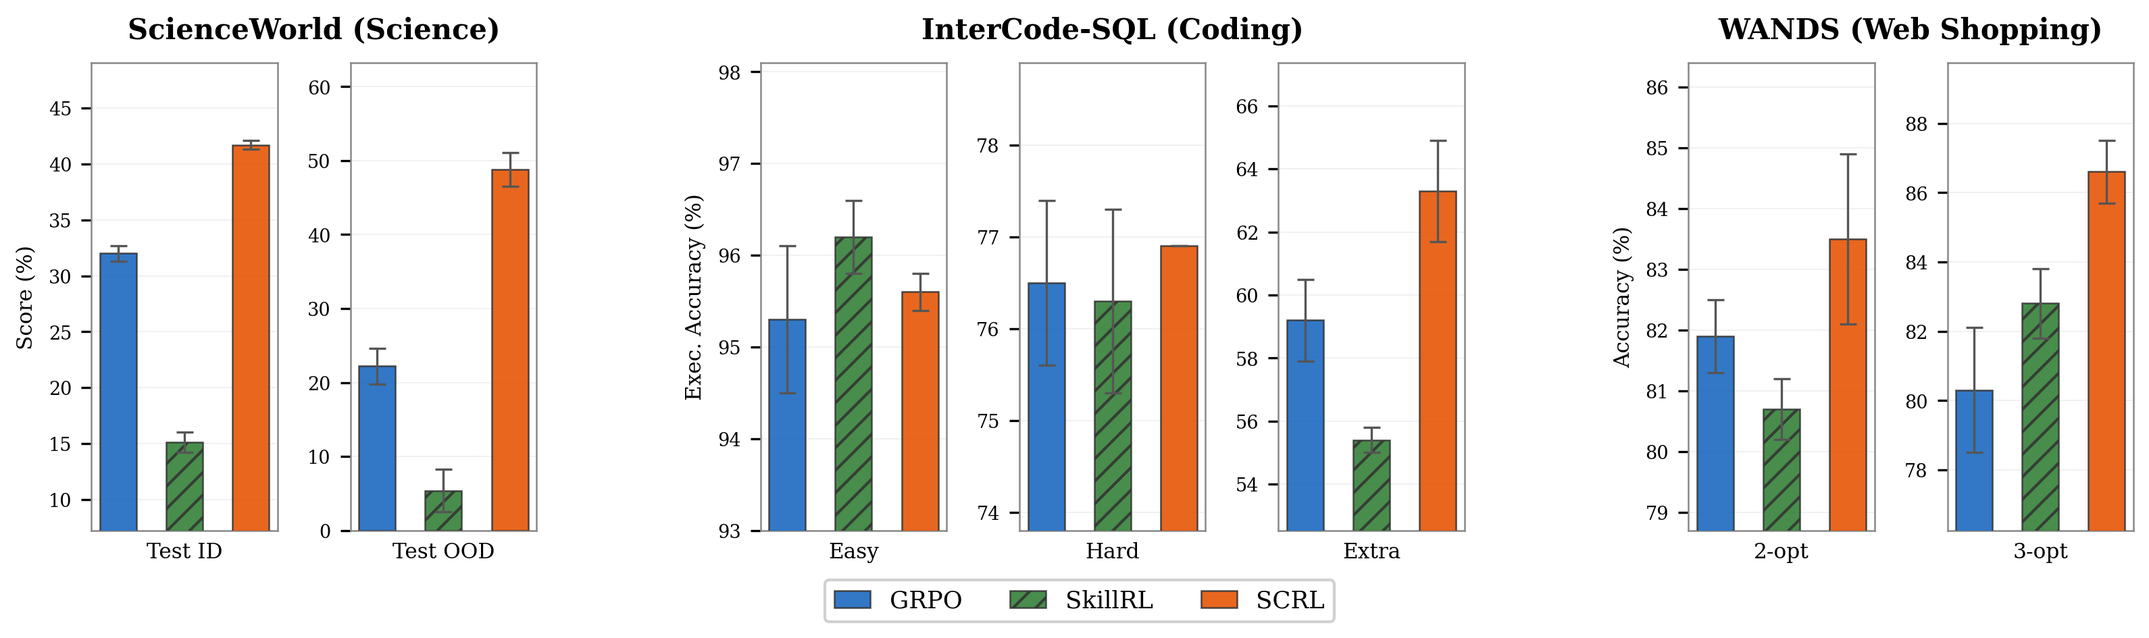
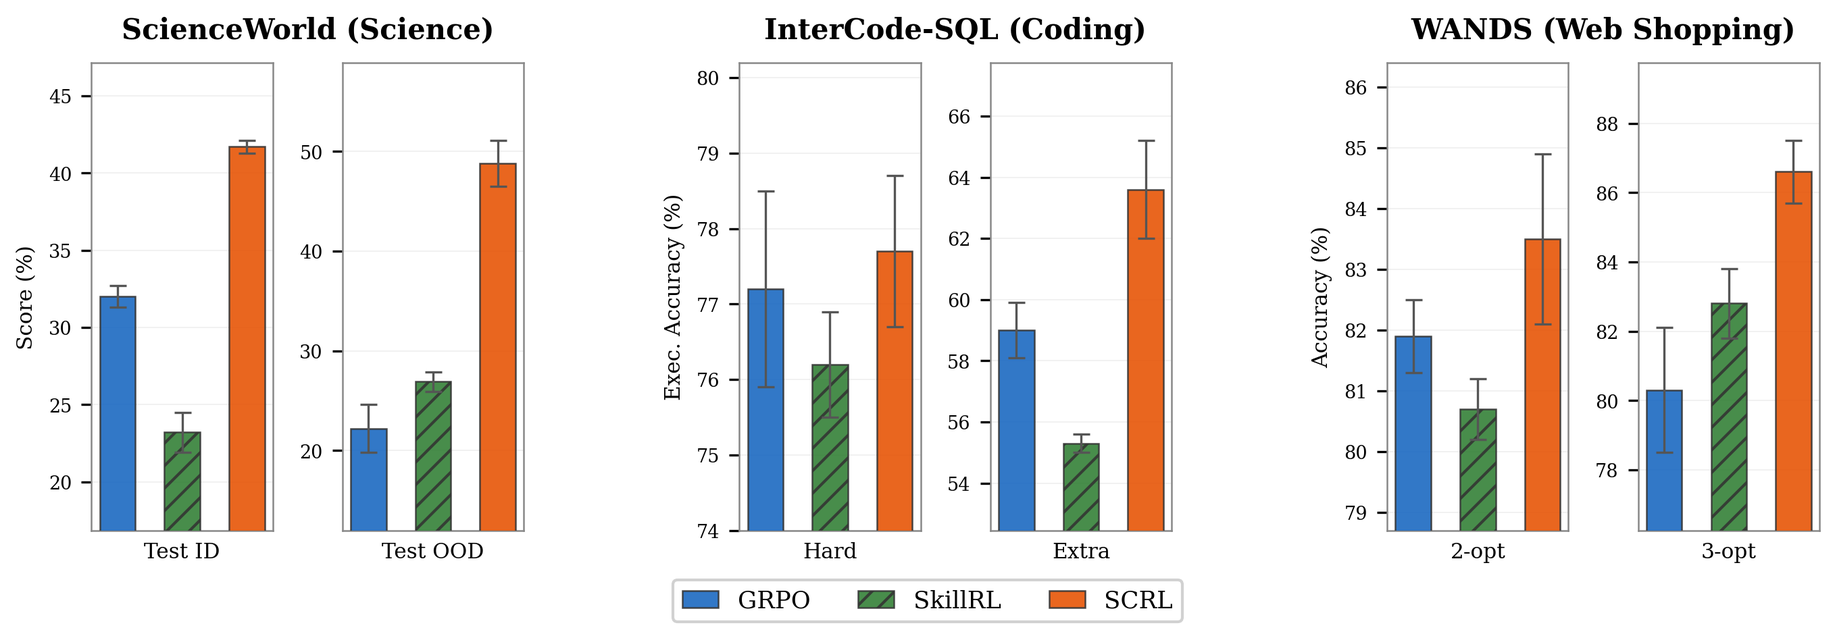
Update experiments: SCRL 4B results, table formatting, case studies
- Update SCRL 4B ALFWorld numbers (s135 from 0427 run): 89.8% overall
- Update SQL bar chart to 6-replicate results, drop Easy category
- Expand table column headers: P&P→Pick&Place, Trans.→Transform, etc.
- Switch tables to resizebox for proper column spacing
- Add case study figure with skill references and action formatting
- Add color definitions, qualitative analysis section with lifecycle + cases

diff --git a/scrl.tex b/scrl.tex
@@ -30,6 +30,12 @@
 
 \input{commands}
 
+\definecolor{stage1color}{HTML}{E65100}
+\definecolor{stage2color}{HTML}{00695C}
+\definecolor{stage3color}{HTML}{4A148C}
+\definecolor{successgreen}{HTML}{2E7D32}
+\definecolor{skillcolor}{HTML}{1565C0}
+
 \title{\ours: RL-Guided Skill Creator for Agentic Skill-Policy Coevolution}
 
 \author{%
@@ -202,29 +208,31 @@ The complete procedure is summarized in Algorithm~\ref{alg:scrl}. The skill crea
 \label{sec:experiments}
 %=============================================================================
 
+% We investigate four questions: (1)~How does \ours~compare to prompt-based methods, vanilla RL, and static skill augmentation? (2)~Does controlled skill evolution improve generalization to unseen tasks? (3)~What is the contribution of Thompson Sampling and evolution frequency? (4)~How do skills co-evolve with the policy during training?
+
 \subsection{Setup}
 
-\sparagraph{Models and benchmarks}
-We evaluate \ours~on two diverse agentic benchmarks: multi-hop question answering with a search tool (NQ + HotpotQA) and ALFWorld \citep{shridharalfworld} (embodied household tasks). We conduct experiments using the Qwen3 model family \citep{bai2023qwen} at two scales: 4B and 8B parameters. Unless otherwise specified, all results use the 4B model.
+\sparagraph{Environments}
+We conduct primary experiments on two diverse agentic benchmarks. \textit{Search}: agents answer factual questions by iteratively issuing search queries and reasoning over retrieved passages. We train on Natural Questions (NQ, single-hop) and HotpotQA (multi-hop), and evaluate generalization on five unseen datasets: PopQA and TriviaQA (single-hop), and 2WikiMultiHopQA, MuSiQue, and Bamboogle (multi-hop). \textit{ALFWorld} \citep{shridharalfworld}: agents complete embodied household tasks (pick \& place, heat/cool/clean, examine) through text commands, evaluated on both seen and unseen task configurations. To further assess broad applicability, we extend our evaluation to three additional domains: \textit{ScienceWorld} \citep{wang2022scienceworld} (science discovery with in-distribution and out-of-distribution task variants), \textit{InterCode-SQL} \citep{yang2023intercode} (interactive SQL generation across Easy, Hard, and Extra-hard difficulty levels), and \textit{WANDS} \citep{chen2022wands} (web shopping with 2-opt and 3-opt optimization horizons). All experiments use the Qwen3 model family \citep{bai2023qwen} at 4B and 8B scales; unless otherwise specified, results report the 4B model.
 
 \rparagraph{Baselines}
-We compare \ours~against two categories of baselines. \textit{Prompt-based methods}: zero-shot \textbf{Baseline}, and retrieval-augmented variants including \textbf{Retrieval} (BM25), \textbf{RAG} (HippoRAG), and \textbf{Long Context} (full trajectory history in context). \textit{RL methods}: \textbf{GRPO}, standard GRPO training with a static instruction and no skills, and \textbf{SkillRL} \citep{xia2025skillrl}, which distills teacher-model skills as static augmentations. We also evaluate ablation variants of \ours~(see \S\ref{sec:ablation}). Implementation details are provided in Appendix~\ref{app:implementation}.
+We compare \ours~against two categories of baselines. \textit{Prompt-based methods}: zero-shot baseline, and retrieval-augmented variants including \texttt{Retrieval} (BM25), \texttt{RAG} (HippoRAG), and \texttt{Long Context} (full trajectory history in context). \textit{RL methods}: \texttt{GRPO}, standard GRPO training with a static instruction and no skills, and \texttt{SkillRL} \citep{xia2025skillrl}, which distills teacher-model skills as static augmentations. We also evaluate ablation variants of \ours~(see \S\ref{sec:ablation}). Implementation details are provided in Appendix~\ref{app:implementation}.
 
 \subsection{Main Results}
 
 \begin{table*}[!t]
-\caption{Main results (mean\tpm{std} over 3 replicates, \%). ALFWorld groups task types into Pick\&Place (P\&P), Transform (Trans.\ = avg of heat, cool, clean), and Examine (Exam.). Search groups by hop count: single-hop (SH) and multi-hop (MH). Retrieval uses BM25; RAG uses HippoRAG. Best per model scale \textbf{bolded}.}
+\caption{Main results (mean\tpm{std} over 3 replicates, \%). ALFWorld groups task types into Pick\&Place, Transform (avg of heat, cool, clean), and Examine. Search groups by hop count: Single-hop and Multi-hop. Retrieval uses BM25; RAG uses HippoRAG. Best per model scale \textbf{bolded}.}
 \label{tab:main_results}
 \centering
 \scriptsize
-\small
-\setlength{\tabcolsep}{0pt}
-\textbf{ALFWorld} — Task types: Pick\&Place (P\&P), Transform (Trans.\ = avg of heat, cool, clean), Examine (Exam.)\\[2pt]
-\begin{tabular*}{\textwidth}{@{\extracolsep{\fill}}ll cccc c cccc c@{}}
+\setlength{\tabcolsep}{4pt}
+\textbf{ALFWorld}\\[2pt]
+\resizebox{\textwidth}{!}{%
+\begin{tabular}{ll cccc c cccc c}
 \toprule
 & & \multicolumn{4}{c}{Seen} && \multicolumn{4}{c}{Unseen} & \\
 \cmidrule(lr){3-6} \cmidrule(lr){8-11}
-& Method & P\&P & Trans. & Exam. & Avg && P\&P & Trans. & Exam. & Avg & Overall \\
+& Method & Pick\&Place & Transform & Examine & Avg && Pick\&Place & Transform & Examine & Avg & Overall \\
 \midrule
 \rowcolor{Gray} \multicolumn{12}{c}{\textbf{Qwen3-4B}} \\
 \midrule
@@ -234,9 +242,9 @@ We compare \ours~against two categories of baselines. \textit{Prompt-based metho
 & RAG & 43.8\tpm{0.0} & 18.5\tpm{0.0} & 64.3\tpm{0.0} & 34.3\tpm{0.0} && 21.2\tpm{0.0} & 43.8\tpm{0.0} & 83.3\tpm{0.0} & 38.1\tpm{0.0} & 36.1\tpm{0.0} \\
 & Long Context & 62.5\tpm{0.0} & 48.9\tpm{0.0} & 50.0\tpm{0.0} & 54.3\tpm{0.0} && 28.8\tpm{0.0} & 67.0\tpm{0.0} & 66.7\tpm{0.0} & 51.5\tpm{0.0} & 52.9\tpm{0.0} \\
 \midrule
-\multirow{2}{*}{\textit{w/ RL}} & GRPO & 93.1\tpm{1.2} & 62.5\tpm{5.7} & \textbf{92.3}\tpm{0.0} & 78.6\tpm{3.3} && 84.2\tpm{5.2} & 72.6\tpm{2.7} & 94.4\tpm{9.6} & 78.9\tpm{1.9} & 78.7\tpm{2.6} \\
-& SkillRL & 88.2\tpm{0.0} & \textbf{85.9}\tpm{0.0} & 61.5\tpm{0.0} & \textbf{85.7}\tpm{0.0} && 68.7\tpm{7.5} & 78.4\tpm{0.8} & \textbf{94.4}\tpm{5.6} & 77.1\tpm{2.8} & 81.5\tpm{1.4} \\
-%& \textbf{\ours} & \textbf{97.9}\tpm{0.0} & \textbf{88.5}\tpm{0.0} & \textbf{92.3}\tpm{0.0} & \textbf{93.6}\tpm{0.0} && \textbf{93.0}\tpm{3.4} & \textbf{93.1}\tpm{4.2} & \textbf{98.1}\tpm{3.2} & \textbf{93.5}\tpm{1.1} & \textbf{93.6}\tpm{0.6} \\
+\multirow{3}{*}{\textit{w/ RL}} & GRPO & \textbf{93.1}\tpm{1.2} & 62.5\tpm{5.7} & \textbf{92.3}\tpm{0.0} & 78.6\tpm{3.3} && 84.2\tpm{5.2} & 72.6\tpm{2.7} & 94.4\tpm{9.6} & 78.9\tpm{1.9} & 78.7\tpm{2.6} \\
+& SkillRL & 88.2\tpm{0.0} & 85.9\tpm{0.0} & 61.5\tpm{0.0} & 85.7\tpm{0.0} && 68.7\tpm{7.5} & 78.4\tpm{0.8} & 94.4\tpm{5.6} & 77.1\tpm{2.8} & 81.5\tpm{1.4} \\
+& \textbf{\ours} & 91.6\tpm{0.0} & \textbf{88.7}\tpm{0.0} & 76.9\tpm{0.0} & \textbf{90.0}\tpm{0.0} && \textbf{87.4}\tpm{2.9} & \textbf{89.6}\tpm{1.9} & \textbf{96.3}\tpm{6.4} & \textbf{89.6}\tpm{0.8} & \textbf{89.8}\tpm{0.4} \\
 \midrule
 \rowcolor{Gray} \multicolumn{12}{c}{\textbf{Qwen3-8B}} \\
 \midrule
@@ -244,15 +252,16 @@ We compare \ours~against two categories of baselines. \textit{Prompt-based metho
 & SkillRL & 95.5\tpm{1.0} & \textbf{83.8}\tpm{2.5} & 87.2\tpm{4.4} & 89.0\tpm{0.4} && 74.0\tpm{5.1} & 79.6\tpm{2.0} & 94.4\tpm{5.6} & 79.9\tpm{2.6} & 84.5\tpm{1.2} \\
 & \textbf{\ours} & \textbf{96.5}\tpm{1.0} & 81.4\tpm{2.2} & \textbf{94.9}\tpm{3.6} & \textbf{90.2}\tpm{0.7} && \textbf{99.3}\tpm{1.0} & \textbf{91.2}\tpm{2.4} & \textbf{100.0}\tpm{0.0} & \textbf{95.3}\tpm{1.3} & \textbf{92.7}\tpm{0.8} \\
 \bottomrule
-\end{tabular*}
+\end{tabular}}%
 \vspace{4pt}
 
-\textbf{Search} — Grouped by hop count: single-hop (SH) and multi-hop (MH)\\[2pt]
-\begin{tabular*}{\textwidth}{@{\extracolsep{\fill}}ll ccc c ccc c@{}}
+\textbf{Search}\\[2pt]
+\resizebox{\textwidth}{!}{%
+\begin{tabular}{ll ccc c ccc c}
 \toprule
 & & \multicolumn{3}{c}{Seen} && \multicolumn{3}{c}{Unseen} & \\
 \cmidrule(lr){3-5} \cmidrule(lr){7-9}
-& Method & SH & MH & Avg && SH & MH & Avg & Overall \\
+& Method & Single-hop & Multi-hop & Avg && Single-hop & Multi-hop & Avg & Overall \\
 \midrule
 \rowcolor{Gray} \multicolumn{10}{c}{\textbf{Qwen3-4B}} \\
 \midrule
@@ -272,9 +281,16 @@ We compare \ours~against two categories of baselines. \textit{Prompt-based metho
 & SkillRL & 48.7\tpm{0.0} & 58.1\tpm{0.8} & 53.4\tpm{0.4} && 56.9\tpm{0.0} & 36.3\tpm{0.0} & 45.6\tpm{0.0} & 48.0\tpm{0.1} \\
 & \textbf{\ours} & \textbf{49.0}\tpm{0.0} & \textbf{58.3}\tpm{0.0} & \textbf{53.7}\tpm{0.0} && \textbf{60.4}\tpm{0.2} & \textbf{37.7}\tpm{0.1} & \textbf{48.0}\tpm{0.1} & \textbf{49.8}\tpm{0.1} \\
 \bottomrule
-\end{tabular*}
+\end{tabular}}%
 \vspace{-1mm}
 \end{table*}
+
+\begin{figure*}[!t]
+\centering
+\includegraphics[width=\textwidth]{figures/generalization_bars.png}
+\caption{Generalization to held-out domains: ScienceWorld (science discovery), InterCode-SQL (coding), and WANDS (web shopping). Each sub-category uses an independent y-axis. \ours~consistently matches or outperforms baselines, with the largest gains on out-of-distribution tasks (ScienceWorld Test OOD, SQL Extra).}
+\label{fig:generalization_bars}
+\end{figure*}
 
 \begin{figure*}[!t]
 \centering
@@ -283,19 +299,19 @@ We compare \ours~against two categories of baselines. \textit{Prompt-based metho
 \label{fig:training_curves}
 \end{figure*}
 
-% TODO: Clarify What Score Means
-% TODO: Main results discussion
+Table~\ref{tab:main_results} summarizes performance across benchmarks, model scales, and seen/unseen splits; Figure~\ref{fig:training_curves} shows validation curves during training.
 
-\subsection{Skill Lifecycle Analysis}
+\rparagraph{Consistent Gains Across Benchmarks and Scales}
+\ours~outperforms all baselines on both benchmarks at both model scales. On ALFWorld, \ours~achieves 89.8\% overall at 4B (+11.1\% over GRPO, +8.3\% over SkillRL) and 92.7\% at 8B. On Search, \ours~reaches 48.2\% at 4B (+3.6\% over GRPO) and 49.8\% at 8B. Prompt-based methods, including retrieval-augmented variants, lag substantially behind all RL-trained models.
 
-\begin{figure*}[!t]
-\centering
-\includegraphics[width=\textwidth]{figures/combined_skill_lifecycle.png}
-\caption{Skill-policy co-evolution on ALFWorld (left) and Search (right). Each pair shows the training curve (with colored stage bands) alongside key skill operations. On ALFWorld, Stage~1 builds the task workflow (\textcolor[HTML]{2E7D32}{+}~add); Stage~2 refines the library with granular navigation skills and prunes internalized ones (\textcolor[HTML]{C62828}{$-$}~delete). On Search, three stages progressively build search foundations, add multi-hop reasoning, and refine precision.}
-\label{fig:skill_lifecycle}
-\end{figure*}
+\rparagraph{Static Skill Banks Overfit to Training Distributions}
+The most notable finding concerns generalization. On ALFWorld, SkillRL achieves 85.7\% on seen tasks but only 77.1\% on unseen, \textit{below} GRPO's 78.9\%. This pattern persists at 8B: 89.0\% seen vs.\ 79.9\% unseen for SkillRL, while GRPO reaches 81.6\% unseen. By contrast, \ours~maintains balanced performance across splits: 90.0\%/89.6\% at 4B and 90.2\%/95.3\% at 8B. On Search, the gap is most pronounced on unseen multi-hop tasks, where \ours~outperforms GRPO by 6.4\% and SkillRL by 2.7\% at 4B. Static, teacher-distilled skill banks overfit to training-distribution patterns; controlled, reward-tested evolution produces skills that generalize.
 
-% TODO: Skill lifecycle discussion
+\rparagraph{Broad Applicability}
+To test whether these findings extend beyond our primary benchmarks, we evaluate all methods on three additional domains (Figure~\ref{fig:generalization_bars}): ScienceWorld (science discovery), InterCode-SQL (coding), and WANDS (web shopping). The generalization advantage of \ours~is most striking on challenging splits. On ScienceWorld, \ours~reaches 48.8\% on OOD tasks, more than doubling GRPO (22.2\%) and substantially exceeding SkillRL (26.9\%), whose static skill bank degrades on unseen task variants. On InterCode-SQL, all methods perform comparably on Hard queries, but \ours~pulls ahead on Extra-hard (63.6\% vs.\ 59.0\% GRPO, 55.3\% SkillRL), where compositional SQL reasoning benefits most from evolved skills. WANDS shows consistent gains across both optimization horizons (2-opt, 3-opt), with \ours~reaching 86.6\% on the harder 3-opt setting. The pattern is consistent: evolved, reward-tested skills provide the largest advantage precisely where tasks demand capabilities beyond the training distribution.
+
+\rparagraph{Convergence Dynamics}
+Figure~\ref{fig:training_curves} reveals complementary dynamics. SkillRL's SFT-initialized skill bank provides a fast early advantage, but performance plateaus as the static library conflicts with the evolving policy. \ours~starts without pre-defined skills and initially trails, but sustained co-evolution enables it to overtake SkillRL and reach higher asymptotic performance on both benchmarks. The gap widens on unseen tasks throughout training, consistent with untested skill changes accumulating noise as the policy outgrows the initial skill bank.
 
 \subsection{Ablation Studies}
 \label{sec:ablation}
@@ -307,7 +323,90 @@ We compare \ours~against two categories of baselines. \textit{Prompt-based metho
 \label{fig:ablation_alfworld}
 \end{figure*}
 
-% TODO: Ablation analysis discussion
+Figure~\ref{fig:ablation_alfworld} presents ablation studies on both benchmarks, varying the sampling strategy and evolution frequency.
+
+\rparagraph{Sampling Strategy}
+We compare three allocation mechanisms: Thompson Sampling (default), uniform random assignment, and autoaccept (every proposed version is accepted without A/B testing). Autoaccept causes the most severe degradation: on ALFWorld, performance collapses as untested skill changes accumulate and conflict with the evolving policy. Uniform sampling avoids collapse but converges more slowly than Thompson Sampling, which concentrates rollouts on the more promising version while maintaining sufficient exploration. The consistent gap across both benchmarks confirms that principled evaluation of skill versions, not just their generation, is essential for stable co-evolution.
+
+\rparagraph{Evolution Frequency}
+We vary the evolution cycle length $K_e \in \{5, 10, 20\}$ GRPO steps. More frequent evolution ($K_e{=}5$) converges fastest on both benchmarks. $K_e{=}10$ performs comparably with slightly slower convergence, while $K_e{=}20$ introduces instability, particularly on ALFWorld, where infrequent updates leave stale skills active across too many policy updates. Evolution frequency should be commensurate with the rate of policy change: tighter coupling between skill updates and policy development yields more stable training.
+
+\subsection{Qualitative Analysis}
+
+\begin{figure*}[!t]
+\centering
+\includegraphics[width=\textwidth]{figures/combined_skill_lifecycle.png}
+\caption{Skill-policy co-evolution on ALFWorld (left) and Search (right). Each pair shows the training curve (with colored stage bands) alongside key skill operations. On ALFWorld, Stage~1 builds the task workflow (\textcolor[HTML]{2E7D32}{+}~add); Stage~2 refines the library with granular navigation skills and prunes internalized ones (\textcolor[HTML]{C62828}{$-$}~delete). On Search, three stages progressively build search foundations, add multi-hop reasoning, and refine precision.}
+\label{fig:skill_lifecycle}
+\end{figure*}
+
+\rparagraph{Skill Lifecycle}
+Figure~\ref{fig:skill_lifecycle} annotates key skill operations alongside training curves on both benchmarks. On ALFWorld, Stage~1 builds the foundational task workflow: skills encoding object-location sequencing, repetition avoidance, and failure recovery are added as the policy acquires basic navigation competence; Stage~2 shifts from additions to refinements, with granular sub-procedure skills replacing broader early-stage guidance as the policy internalizes and prunes foundational skills. Search exhibits a finer-grained three-stage progression: search-then-verify foundations (Stage~1), multi-hop reasoning skills such as exhaustive extraction and entity-role matching (Stage~2), and precision skills targeting the remaining failure modes of an already capable agent (Stage~3). On both benchmarks, each stage's skills address failure patterns that emerge only after the policy absorbs the previous stage's guidance, confirming that the creator responds to the policy's evolving failure landscape rather than following a fixed curriculum.
+
+\rparagraph{Case Studies}
+Figure~\ref{fig:case_studies} presents representative reasoning traces. On ALFWorld, [\textcolor{skillcolor}{diagnose-failed-take}] triggers after a failed take action: instead of blind retry, the agent verifies environment state with \texttt{look} before reattempting. On Search, [\textcolor{skillcolor}{require-multi-step-verification}] drives a 3-hop decomposition (founder $\to$ film $\to$ writers), verifying each intermediate result before proceeding. These traces show that evolved skills actively restructure reasoning, from reactive error recovery to systematic decomposition. Additional cases are in Appendix~\ref{app:case_studies}.
+
+\begin{figure*}[!t]
+\centering
+\begin{minipage}[t]{0.44\textwidth}
+\begin{tcolorbox}[
+    colback=white, colframe=black!40, sharp corners,
+    boxrule=0.6pt, left=4pt, right=4pt, top=3pt, bottom=3pt,
+    title={\small\textbf{ALFWorld}},
+    fonttitle=\sffamily\scriptsize, colbacktitle=black!5, coltitle=black,
+    equal height group=casepanels
+]
+\scriptsize
+\textbf{Task:} \textit{``Find two handtowel and put them in toilet.''}
+\vspace{2pt}
+
+\begin{tabularx}{\linewidth}{@{}p{0.7cm} X@{}}
+    \textbf{Step 1} & Handtowel~2 is at handtowelholder~2. \\
+    & \textcolor{black!55}{\texttt{> take handtowel 2 from handtowelholder 2}} \\
+    \midrule
+    \textbf{Step 2} & \textit{Obs: ``Nothing happens.''} Per [\textcolor{skillcolor}{diagnose-failed-take}]: take failed, verify state before retry. \\
+    & \textcolor{black!55}{\texttt{> look}} \\
+    \midrule
+    \textbf{Step 3} & Handtowel~2 confirmed. Retry. \\
+    & \textcolor{black!55}{\texttt{> take handtowel 2 from handtowelholder 2}} \\
+\end{tabularx}
+
+\vspace{2pt}\hrule\vspace{2pt}
+\textbf{\textcolor{successgreen}{\scriptsize\checkmark}} {\scriptsize Look-verify-retry instead of blind retry.}
+\end{tcolorbox}
+\end{minipage}\hfill%
+\begin{minipage}[t]{0.55\textwidth}
+\begin{tcolorbox}[
+    colback=white, colframe=black!40, sharp corners,
+    boxrule=0.6pt, left=4pt, right=4pt, top=3pt, bottom=3pt,
+    title={\small\textbf{Search}},
+    fonttitle=\sffamily\scriptsize, colbacktitle=black!5, coltitle=black,
+    equal height group=casepanels
+]
+\scriptsize
+\textbf{Task:} \textit{``The founder of `Black Veil Brides' appears in a thriller film written by what two people?''}
+\vspace{2pt}
+
+\begin{tabularx}{\linewidth}{@{}p{0.7cm} X@{}}
+    \textbf{Step 1} & \textcolor{black!55}{\texttt{> <search>Black Veil Brides founder thriller</search>}} \\
+    \midrule
+    \textbf{Step 2} & Per [\textcolor{skillcolor}{require-multi-step-verification}]: founder, film, and both writers must be identified. Verify founder first. \\
+    & \textcolor{black!55}{\texttt{> <search>founder of Black Veil Brides</search>}} \\
+    \midrule
+    \textbf{Step 3} & Andy Biersack confirmed. No film mentioned. \\
+    & \textcolor{black!55}{\texttt{> <search>Andy Biersack thriller film</search>}} \\
+    \midrule
+    \textbf{Step 4} & Film: ``American Satan,'' writers identified. \\
+    & \textcolor{black!55}{\texttt{> <answer>Ash Avildsen, Matty Beckerman</answer>}} \\
+\end{tabularx}
+
+\vspace{2pt}\hrule\vspace{2pt}
+\textbf{\textcolor{successgreen}{\scriptsize\checkmark}} {\scriptsize 3-hop: founder $\to$ film $\to$ writers.}
+\end{tcolorbox}
+\end{minipage}
+\caption{Reasoning traces from ALFWorld and Search. Evolved skills ([\textcolor{skillcolor}{blue}]) actively shape the agent's reasoning: error recovery via state verification (left) and multi-hop decomposition (right).}
+\label{fig:case_studies}
+\end{figure*}
 
 %=============================================================================
 \section{Related Work}
@@ -632,13 +731,9 @@ ALFWorld  &  76 & 0.79 & 0.54 & 0.41 \\
 \section{Case Studies: Skill-Guided Reasoning}
 \label{app:case_studies}
 
-We present representative reasoning traces from the Search domain showing how the agent invokes skills at different training stages (color-coded to match \cref{fig:skill_lifecycle}). All traces are verbatim from checkpoint generations.
+We present additional reasoning traces from both domains showing how the agent invokes skills at different training stages (color-coded to match \cref{fig:skill_lifecycle}). All traces are verbatim from checkpoint generations.
 
-\definecolor{stage1color}{HTML}{E65100}
-\definecolor{stage2color}{HTML}{00695C}
-\definecolor{stage3color}{HTML}{4A148C}
-\definecolor{successgreen}{HTML}{2E7D32}
-\definecolor{skillcolor}{HTML}{1565C0}
+\subsection{Search}
 
 % ── Case 1: Stage 1 ──────────────────────────────────────────────────────
 \begin{tcolorbox}[
@@ -749,6 +844,61 @@ We present representative reasoning traces from the Search domain showing how th
 
 \vspace{3pt}\hrule\vspace{3pt}
 \textbf{\textcolor{successgreen}{Result: SUCCESS}} --- The most sophisticated skill invocation: 3-hop decomposition (founder $\to$ film $\to$ writers) with explicit multi-step verification. This level of chained reasoning is absent in Stage~1 traces.
+\end{tcolorbox}
+
+\subsection{ALFWorld}
+
+% ── ALFWorld Case 1: diagnose-failed-take ──────────────────────────────────
+\begin{tcolorbox}[
+    colback=white, colframe=stage2color, width=\textwidth, sharp corners,
+    boxrule=0.8pt, left=5pt, right=5pt, top=5pt, bottom=5pt,
+    title=\textbf{Case 5 (Stage 2, Step 121): Error Recovery --- diagnose-failed-take},
+    fonttitle=\sffamily\small, colbacktitle=stage2color!10, coltitle=black
+]
+\small
+
+\textbf{Task:} \textit{``Find two handtowel and put them in toilet.''}
+
+\vspace{4pt}
+\begin{tabularx}{\linewidth}{@{}p{1.0cm} X@{}}
+    \textbf{Step 12} & I am applying the \textbf{\textcolor{skillcolor}{diagnose-failed-take}} skill because I have just attempted to take a handtowel that is not visible at the current location, and the task requires finding two handtowels. Since I already know that handtowel~2 is visible at handtowelholder~2, I should take it to complete the task. \\
+    & \texttt{take handtowel 2 from handtowelholder 2} \\
+    \midrule
+    \textbf{Step 13} & \textit{Observation: ``Nothing happens.''} I am applying the \textbf{\textcolor{skillcolor}{diagnose-failed-take}} skill because the take action resulted in ``Nothing happens,'' indicating a failed attempt. This skill is specifically designed to handle such failures by first verifying the state of the environment to ensure the object is actually present and then attempting the take action with the correct object name and quantity. \\
+    & \texttt{look} \\
+    \midrule
+    \textbf{Step 14} & Environment confirms handtowel~2 is at handtowelholder~2. Reattempt with verified object state. \\
+    & \texttt{take handtowel 2 from handtowelholder 2} \\
+\end{tabularx}
+
+\vspace{3pt}\hrule\vspace{3pt}
+\textbf{\textcolor{successgreen}{Result: SUCCESS}} --- The skill is invoked in two modes: proactively (step~12, attempting the take) and reactively (step~13, recovering from failure). At step~13, the skill correctly drives a \texttt{look} action to verify environment state before retrying, following the look-verify-retry protocol.
+\end{tcolorbox}
+
+\vspace{4pt}
+
+% ── ALFWorld Case 2: acquire-after-navigation ──────────────────────────────
+\begin{tcolorbox}[
+    colback=white, colframe=stage3color, width=\textwidth, sharp corners,
+    boxrule=0.8pt, left=5pt, right=5pt, top=5pt, bottom=5pt,
+    title=\textbf{Case 6 (Stage 3, Step 132): Navigation-Driven Action --- acquire-after-navigation},
+    fonttitle=\sffamily\small, colbacktitle=stage3color!10, coltitle=black
+]
+\small
+
+\textbf{Task:} \textit{``Cool some bowl and put it in countertop.''}
+
+\vspace{4pt}
+\begin{tabularx}{\linewidth}{@{}p{1.0cm} X@{}}
+    \textbf{Step 17} & I am applying the \textbf{\textcolor{skillcolor}{acquire-after-navigation}} skill because I have just arrived at the fridge and the task requires cooling the bowl. The bowl is already in my possession, and I need to cool it using the fridge. Since the fridge is open and contains relevant items, I should directly cool the bowl. This aligns with the skill's guidance to look for and take the target object if visible. \\
+    & \texttt{cool bowl 1 with fridge 1} \\
+    \midrule
+    \textbf{Step 19} & I am applying the \textbf{\textcolor{skillcolor}{acquire-after-navigation}} skill because I have just arrived at countertop~3 and need to place the cooled bowl. The task requires cooling the bowl and then putting it on the countertop, and I have already cooled the bowl. Since the bowl is already in my inventory and I am at the countertop, I should move it directly. \\
+    & \texttt{move bowl 1 to countertop 3} \\
+\end{tabularx}
+
+\vspace{3pt}\hrule\vspace{3pt}
+\textbf{\textcolor{successgreen}{Result: SUCCESS}} --- The Stage~3 skill \texttt{acquire-after-navigation} triggers on \texttt{go to} actions and teaches the model to immediately act on what it finds at each location. The model adapts the skill's ``look and take'' guidance to also cover placement, applying the same act-immediately-after-navigation principle to both acquiring and placing objects.
 \end{tcolorbox}
 
 \end{document}
